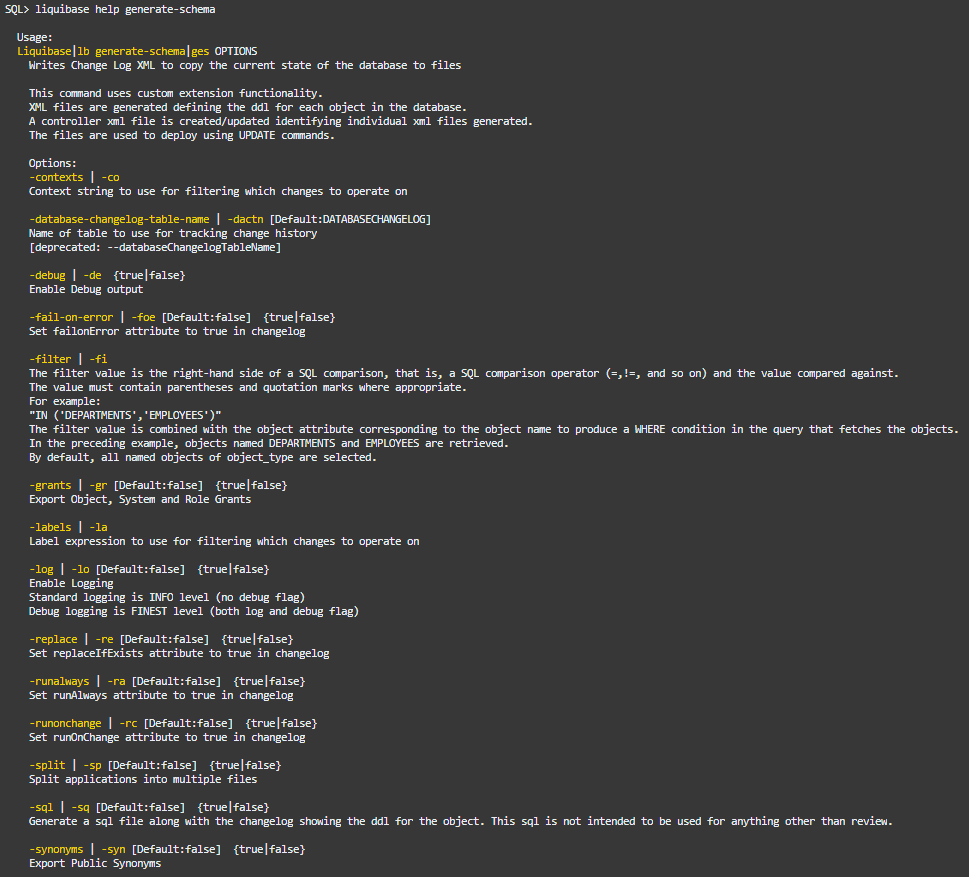
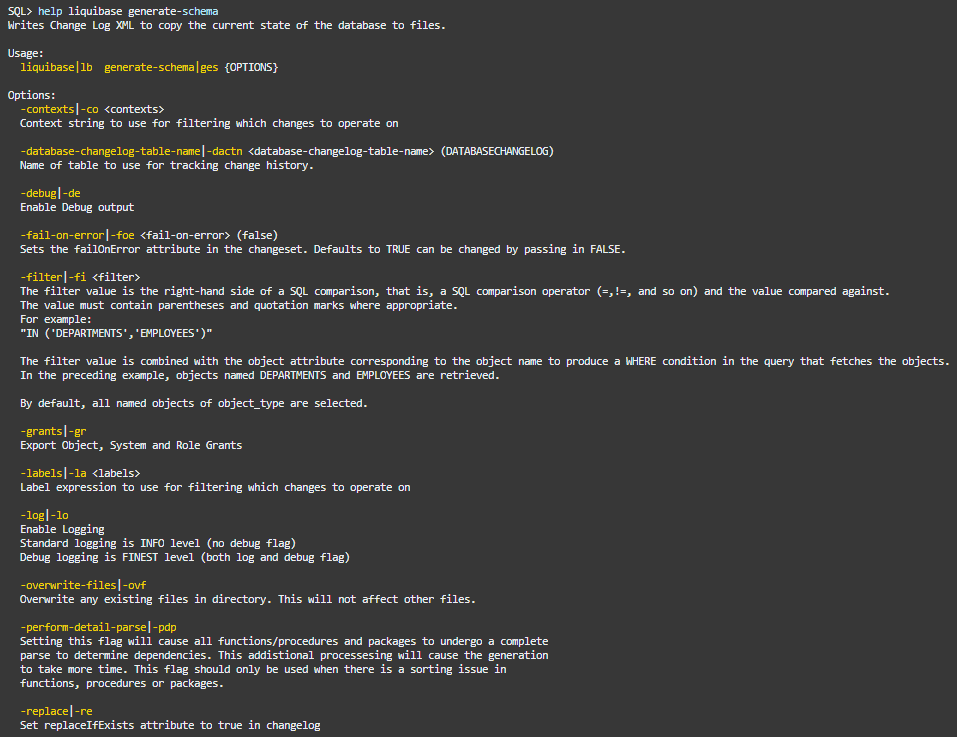
WMS 7341 Minor Adjustments Due to Cloud Shell SQLcl Update (#281)
* WMS 7341 Remaster

* Fix

* WMS 7341

* WMS 7341 Remaster Updates

* Small Adjustment

* WMS 7341 Structure Updates

* WMS 7341 Image Adjustments and Fixes

* Removing Duplicate Images

* WMS 7341 Very Minor Indent and Link Fix

* WMS 7341 Minor Tweaks

* WMS ID 7341 Minor Typo Fix and Adding OCW Info to Manifest

* WMS 11474

* WMS 11474: Minor Manifest Typo Fix

* WMS 11474 Updates

* WMS 7341 & 11474 Sandbox Conversion

* WMS 11474 & 7341 Minor Connection Type Tweak

* WMS 7341 & 11474 Minor Detail Update

* WMS 11474 DB Actions Update

* WMS 7341 DB Actions Updates

* WMS 7341 Updates for New SQLcl Cloud Shell Version

diff --git a/orcl-db-cicd-for-devs/lab2-help-generate-update/lab2-help-generate-update.md b/orcl-db-cicd-for-devs/lab2-help-generate-update/lab2-help-generate-update.md
@@ -21,7 +21,7 @@ In this lab, you will be replicating the database schema from the MOVIESTREAM\_M
 ### Objectives
 In this lab you will:
 * Connect to the database user MOVIESTREAM_MANAGER.
-* Learn how to use the `liquibase help` command.
+* Learn how to use the `help liquibase` command.
 * Generate Liquibase changelog files to capture your database schema.
 * Connect to the database user MOVIESTREAM_DEV, prepare to automatically create your database objects by inspecting the SQL that will run, then create the database objects.
 
@@ -73,36 +73,27 @@ Completion of:
       ![Moviestream_Manager Login](./images/3managerlogin.png)
 
 ## Task 2: Learn how to use the help command
-   1. The quickest way to familiarize yourself with Liquibase is with the `liquibase help` command.
+   1. The quickest way to familiarize yourself with Liquibase is with the `help liquibase` command.
       * This will give you a list of all Liquibase commands and their descriptions.
 
       ```na
       <copy>
-      liquibase help
+      help liquibase
       </copy>
       ```
 
       ![Liquibase Help](./images/4liquibasehelp.png)
 
-   2. If you want help on a specific Liquibase command, use `liquibase help [command name]` and it will give you the description of the command and all of its available parameters. Let's try this for the `liquibase generate-schema` command you are about to run (pay attention to the `-split` and `-sql` optional parameters as you are going to be using them).
+   2. If you want help on a specific Liquibase command, use `help liquibase [command name]` and it will give you the description of the command and all of its available parameters. Let's try this for the `liquibase generate-schema` command you are about to run (pay attention to the `-split` and `-sql` optional parameters as you are going to be using them).
 
       ```na
       <copy>
-      liquibase help generate-schema
+      help liquibase generate-schema
       </copy>
       ```
 
       ![Liquibase Help](./images/5liquibasehelpgenerateschema.png)
 
-   3. There are also some fun preloaded use case scenarios you can view with the `liquibase help -example` command.
-
-      ```na
-      <copy>
-      liquibase help -example
-      </copy>
-      ```
-
-      ![Help Example](./images/6liquibasehelpexample.png)
 
 ## Task 3: Generate your database schema files
 
@@ -167,14 +158,14 @@ Completion of:
       </copy>
       ```
 
-   6. Now let's save the table to a Liquibase changelog file which you will run later. Unlike with the `liquibase generate-schema` command you just ran, you will be using the `liquibase generate-object` command to capture just one singular object to one changelog file:
-      * `liquibase generate-object` saves an individual database object to a Liquibase file.
+   6. Now let's save the table to a Liquibase changelog file which you will run later. Unlike with the `liquibase generate-schema` command you just ran, you will be using the `liquibase generate-db-object` command to capture just one singular object to one changelog file:
+      * `liquibase generate-db-object` saves an individual database object to a Liquibase file.
          * `-object-type` is a mandatory parameter that specifies the type of object you are saving.
          * `-object-name` is a mandatory parameter that specifies the name of the object you are saving.
 
       ```na
       <copy>
-      liquibase generate-object -object-type table -object-name merchandise
+      liquibase generate-db-object -object-type table -object-name merchandise
       </copy>
       ```
 

diff --git a/orcl-db-cicd-for-devs/intro/intro.md b/orcl-db-cicd-for-devs/intro/intro.md
@@ -22,9 +22,9 @@ With SQLcl Liquibase you can integrate database change automation into your larg
 
 ### Objectives
 Learn the core functionality of SQLcl Liquibase in this hands-on workshop:
-* Learn how to use `liquibase help` for guidance on the tool
+* Learn how to use `help liquibase` for guidance on the tool
 * Capture an entire Oracle Database schema into files with `liquibase generate-schema`
-* Capture a single database object into a file with `liquibase generate-object`
+* Capture a single database object into a file with `liquibase generate-db-object`
 * Preview the SQL code for review before executing an update with `liquibase update-sql`
 * Run `liquibase update` to create database objects from Liquibase files
 * Learn how changelog files and tables work
